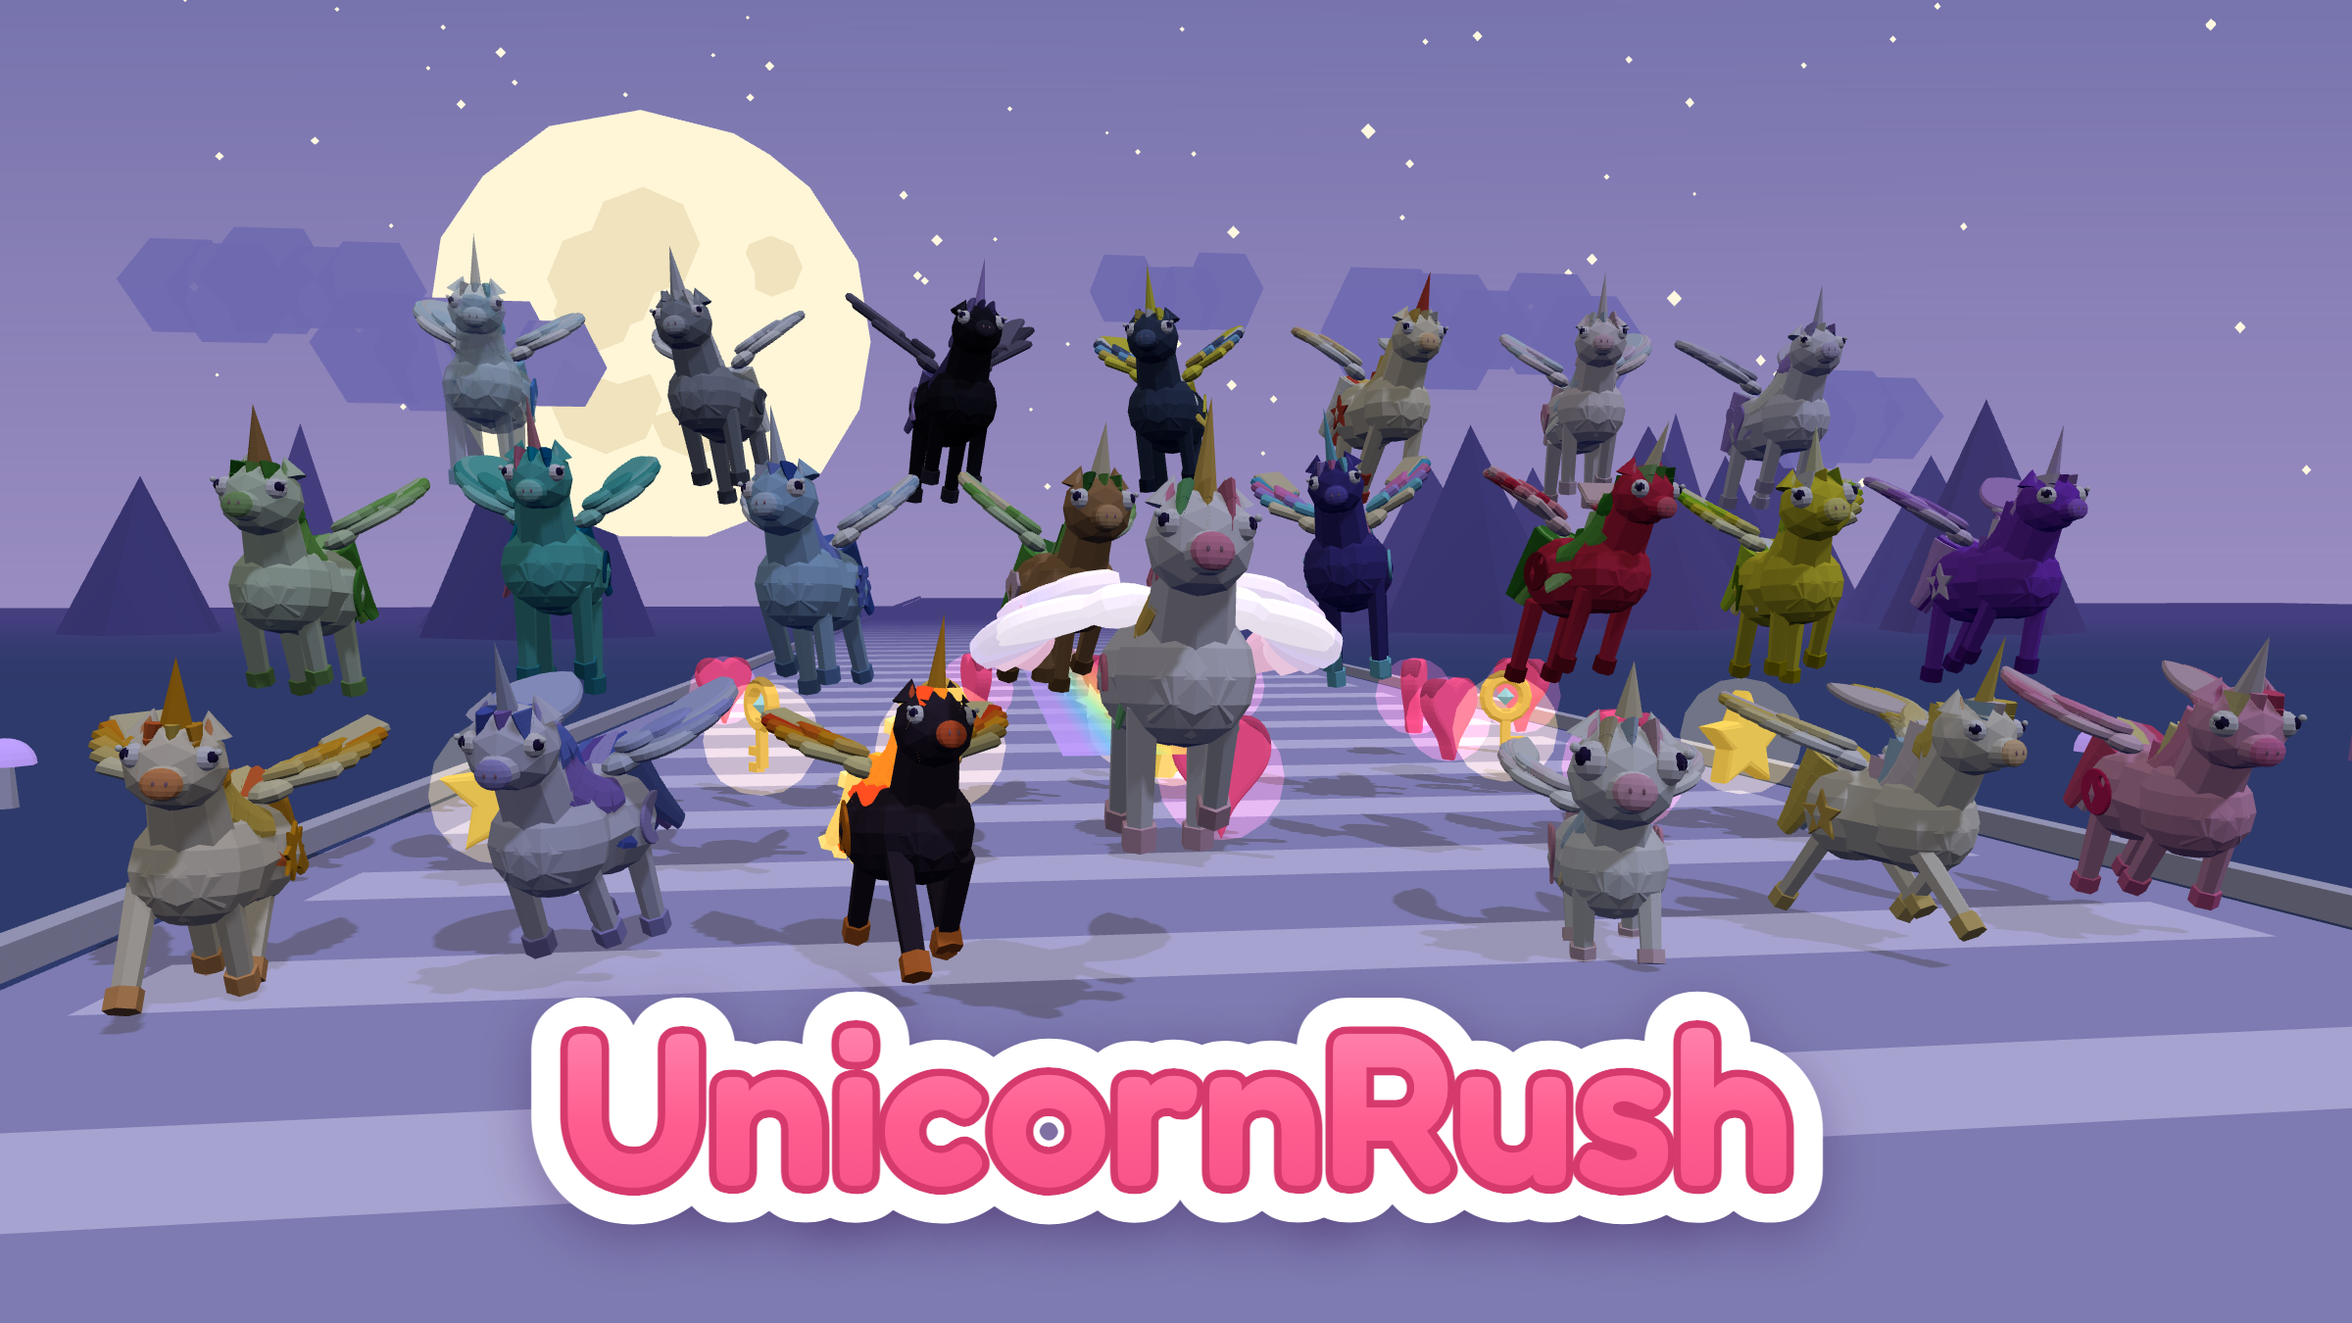
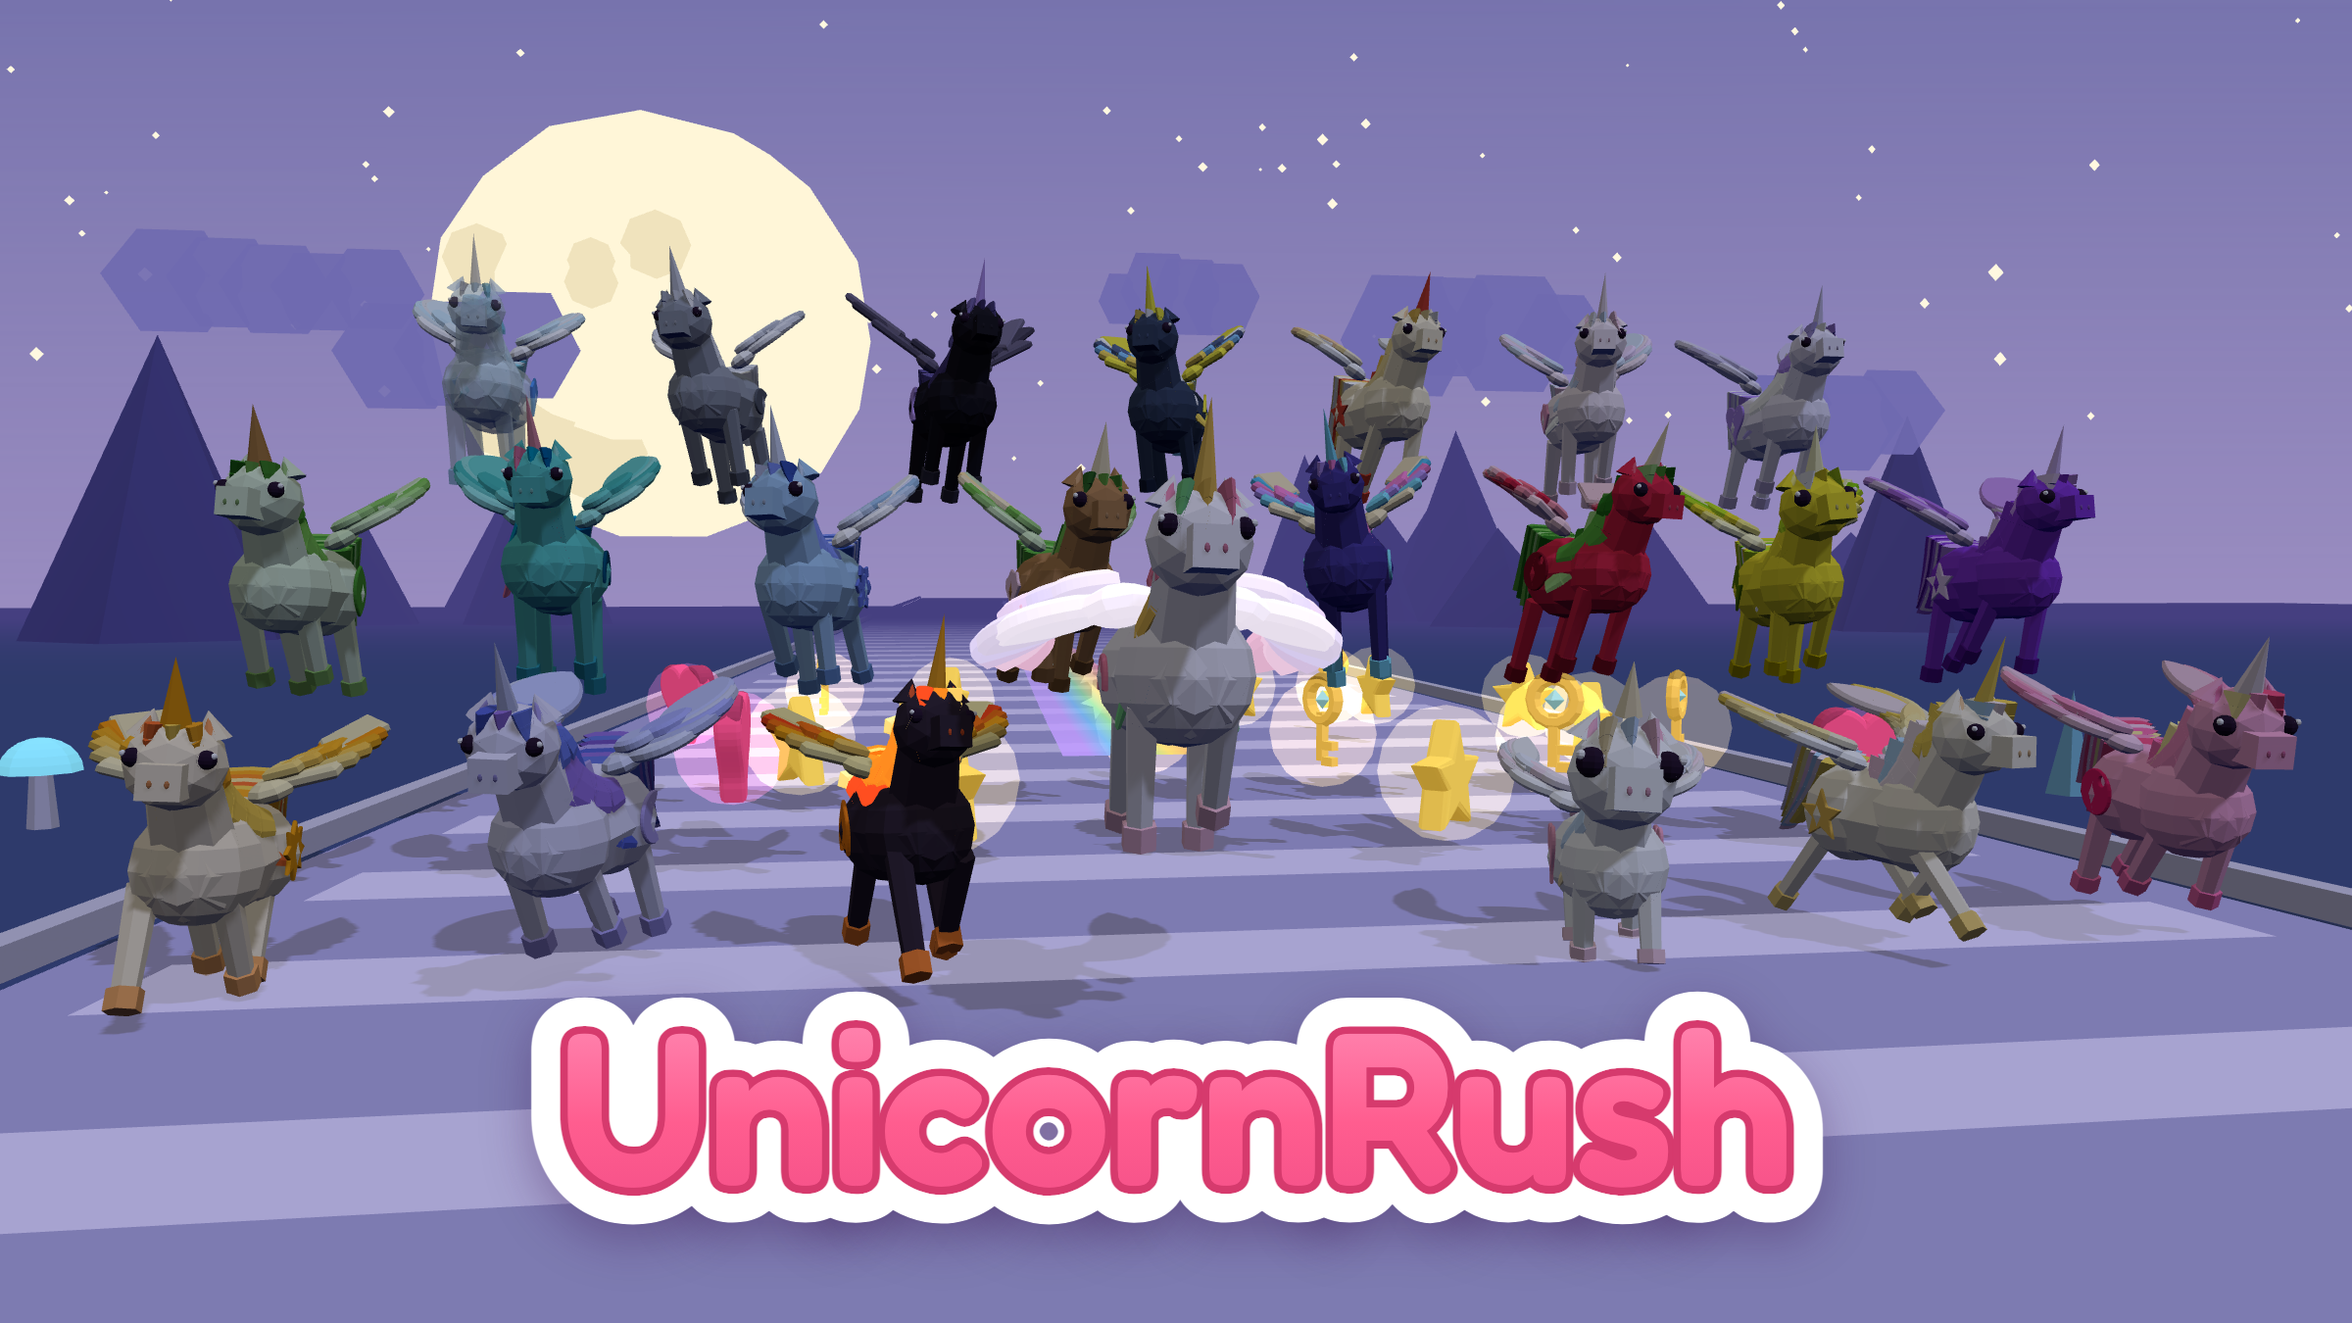
Focinho e olho voltam ao que eram; o rabo vira rabo de cavalo
Desfaz duas mudanças da versão anterior que pioraram o personagem, e conserta
o rabo, que estava feio desde então.

O focinho volta a ser a caixa de antes, **sem a bolinha da ponta** — só as
duas narinas ficam, na cor do personagem escurecida, porque no tom original
sumiriam em quem é claro e um preto fixo destoaria de quem é escuro. A
esfera com mancha clara que tentei no lugar virava focinho de porquinho.

O olho volta a ser a bolinha escura, agora com **um brilho**: uma bolinha
branca em cima, do lado de fora, onde a luz bateria. É o que separa "olho"
de "botão de casaco", por uma peça — e não pelas três do olho em camadas que
eu tinha montado.

E o rabo, onde errei três vezes seguidas. A mecha é fina em X e larga em Z,
que serve para a crina cair rente ao pescoço; espalhando as do rabo em X,
elas se empilham uma atrás da outra e de perfil só se vê a face da primeira
— tábua de uma cor só, com as outras num filete na borda, e grossas o
bastante para dar para contar uma a uma (as "várias tranças"). Em anel, com
a face acompanhando a volta, vira uma fileira de lâminas.

O que funciona é achatar **em Z** e espalhar **em Z**: cada mecha ocupa uma
fatia da largura, e as cores correm lado a lado ao longo do rabo, como o
arco-íris na ilustração. Daí a opção `achatarEm` do `makeLock` — achatar por
opção em vez de girar a mecha 90° é o que mantém o balanço para trás, já que
o `animateLock` gira os nós no X local.
[…]

diff --git a/src/models/unicorn.js b/src/models/unicorn.js
@@ -21,7 +21,10 @@ const mat = (color, opts = {}) =>
 // `curva` é o quanto cada nó dobra em relação ao anterior: com 0 a mecha é
 // um espeto, e com 0,2 ela vira uma onda. É o que separa "fio de cabelo" de
 // "cabelo de desenho", que é o que as ilustrações do livro têm.
-function makeLock(color, { length = 0.9, width = 0.14, segments = 5, flatten = 0.45, fiery = false, curva = 0 } = {}) {
+// `achatarEm` diz em que eixo a mecha é fina. O padrão é `x` (fina de lado,
+// larga de frente), que serve para crina e franja. O rabo precisa do
+// contrário — ver o porquê em makeTail.
+function makeLock(color, { length = 0.9, width = 0.14, segments = 5, flatten = 0.45, fiery = false, curva = 0, achatarEm = 'x' } = {}) {
   const root = new THREE.Group();
   const joints = [];
   const segLength = length / segments;
@@ -44,7 +47,7 @@ function makeLock(color, { length = 0.9, width = 0.14, segments = 5, flatten = 0
       material
     );
     mesh.position.y = -segLength / 2;
-    mesh.scale.x = flatten;          // fina de lado: mecha de cabelo, não tubo
+    mesh.scale[achatarEm] = flatten;   // fina num eixo: mecha de cabelo, não tubo
     mesh.castShadow = true;
 
     joint.add(mesh);
@@ -108,23 +111,36 @@ function makeMane(colors, fiery = false) {
 function makeTail(colors, fiery = false) {
   const tail = new THREE.Group();
   const locks = [];
-  const count = 6;
+  const count = 7;
 
   for (let i = 0; i < count; i++) {
-    const offset = i - (count - 1) / 2;
+    const meio = i - (count - 1) / 2;
+
+    // O rabo é fino **em Z** e espalhado **em Z**, ao contrário da crina.
+    //
+    // Foi onde errei três vezes. A mecha padrão é fina de lado (X) e larga de
+    // frente (Z); espalhando-as em X, elas se empilham uma atrás da outra e
+    // de perfil só se vê a face da primeira — o rabo virava uma tábua de uma
+    // cor só, com as outras aparecendo num filete na borda. Espalhadas em Z e
+    // finas em Z, cada mecha ocupa uma fatia da largura do rabo, e as cores
+    // correm lado a lado ao longo dele, que é como o arco-íris aparece na
+    // ilustração do livro.
+    //
+    // Achatar por opção (e não girar a mecha 90°) é o que mantém o balanço
+    // certo: `animateLock` gira os nós no X local, e uma mecha girada
+    // balançaria de lado em vez de para trás.
     const lock = makeLock(colors[i % colors.length], {
-      length: 0.95 - Math.abs(offset) * 0.06,
-      width: 0.26,                       // pluma, não fita
+      length: 1.0 - Math.abs(meio) * 0.05,   // ponta arredondada
+      width: 0.3,
       segments: 5,
-      flatten: fiery ? 0.7 : 0.42,
-      // Dobra para fora: o rabo abre em leque em vez de cair reto.
-      curva: fiery ? 0 : 0.13,
+      flatten: fiery ? 0.7 : 0.22,
+      curva: fiery ? 0 : 0.12,
+      achatarEm: 'z',
       fiery,
     });
-    // Bem juntinhas: de trás o rabo tem que parecer um tufo, não fitas soltas.
-    lock.position.set(offset * 0.075, 0, -Math.abs(offset) * 0.05);
-    lock.rotation.z = offset * 0.1;
-    lock.userData.phase = i * 0.55;
+    lock.position.set(0, 0, meio * 0.052);
+    lock.rotation.x = -Math.abs(meio) * 0.02;
+    lock.userData.phase = i * 0.5;
     tail.add(lock);
     locks.push(lock);
   }
@@ -132,6 +148,10 @@ function makeTail(colors, fiery = false) {
   tail.userData.locks = locks;
   return tail;
 }
+
+
+
+
 
 // ---------------------------------------------------------------------------
 // Asas
@@ -488,64 +508,41 @@ export function createUnicorn(character = CHARACTERS.uni) {
   skull.castShadow = true;
   head.add(skull);
 
-  // Focinho arredondado. Era uma caixa, e de frente a cara terminava numa
-  // quina — o oposto de fofo. Uma esfera achatada encosta no crânio sem
-  // costura e mantém o vocabulário de poucas faces do resto do jogo.
-  const muzzle = new THREE.Mesh(new THREE.SphereGeometry(0.17, 10, 8), bodyMat);
-  // Curto e redondo: focinho comprido lê como cavalo adulto, e o alvo
-  // aqui é o pônei das ilustrações.
-  muzzle.scale.set(0.88, 0.78, 0.92);
-  muzzle.position.set(0, -0.1, -0.26);
+  const muzzle = new THREE.Mesh(new THREE.BoxGeometry(0.27, 0.25, 0.34), bodyMat);
+  muzzle.position.set(0, -0.09, -0.3);
   muzzle.castShadow = true;
   head.add(muzzle);
 
-  // O focinho é uma **mancha** rente à cara, e não a bolinha que ficava
-  // saliente na ponta — de perfil aquilo lia como nariz de palhaço. Nas
-  // ilustrações do livro é uma marca clara no fim do focinho, com duas
-  // narinas do tamanho de um alfinete.
-  const mancha = new THREE.Mesh(new THREE.SphereGeometry(0.132, 10, 8), mat(character.muzzle));
-  mancha.scale.set(1, 0.86, 0.46);
-  mancha.position.set(0, -0.105, -0.375);
-  head.add(mancha);
-
-  // Narinas mínimas. Na primeira tentativa eram três vezes isto e a cara
-  // virava focinho de porquinho: o que faz ler "cavalinho" é a mancha, e a
-  // narina só precisa existir.
+  // Só as narinas na ponta. A bolinha que havia aqui lia como nariz de
+  // palhaço, e a mancha que tentei no lugar dela deixava o focinho de
+  // porquinho — duas marquinhas bastam.
+  //
+  // A cor sai da do personagem, escurecida: no tom original ela sumiria em
+  // quem é claro, e um preto fixo destoaria de quem é escuro.
+  const corNarina = new THREE.Color(character.muzzle).multiplyScalar(0.62);
   for (const side of [-1, 1]) {
-    const narina = new THREE.Mesh(new THREE.SphereGeometry(0.014, 6, 5), mat(0xb07f92));
-    narina.scale.set(1, 1.5, 0.6);
-    narina.position.set(side * 0.038, -0.1, -0.428);
+    const narina = new THREE.Mesh(new THREE.SphereGeometry(0.019, 6, 5), mat(corNarina));
+    narina.scale.set(1, 1.5, 0.7);
+    narina.position.set(side * 0.052, -0.1, -0.468);
     head.add(narina);
   }
 
   const ears = [];
   for (const side of [-1, 1]) {
-    // O olho, em três peças: branco, íris e um brilhinho.
-    //
-    // Antes era uma bolinha escura só, que de perto lia como botão de casaco.
-    // O que faz o olho parecer vivo — e o bicho, fofo — é o branco em volta e
-    // o pontinho de luz; é o que as ilustrações do livro fazem.
-    //
-    // As três peças ficam empilhadas ao longo da **normal do crânio** (a
-    // direção que sai do centro da cabeça passando pelo olho), e não ao longo
-    // do Z: o olho fica na quina entre a frente e a lateral, então empilhar em
-    // Z deixaria a íris torta quando o bicho é visto de lado — e agora ele
-    // gira 360° na ficha.
-    const raio = 0.092 * shape.eye;
-    const fora = new THREE.Vector3(side * 0.23, 0.075, -0.2).normalize();
-    const olho = (r, cor, altura) => {
-      const m = new THREE.Mesh(new THREE.SphereGeometry(r, 9, 7), mat(cor));
-      m.position.copy(fora).multiplyScalar(0.285 + altura);
-      head.add(m);
-      return m;
-    };
-    olho(raio, 0xfffaff, 0);                       // o branco
-    olho(raio * 0.56, 0x2f2350, raio * 0.55);      // a íris, deixando o branco à mostra
-    const brilho = olho(raio * 0.26, 0xffffff, raio * 0.86);
-    // O brilho não fica no meio: sai um pouco para cima e para o lado de
-    // fora, que é onde a luz bate.
-    brilho.position.x += side * raio * 0.34;
-    brilho.position.y += raio * 0.38;
+    const raioOlho = 0.07 * shape.eye;
+    const eye = new THREE.Mesh(new THREE.SphereGeometry(raioOlho, 8, 8), mat(0x30203a));
+    eye.position.set(side * 0.22, 0.06, -0.2);
+    head.add(eye);
+
+    // O brilho: uma bolinha branca em cima do olho, do lado de fora, que é
+    // onde a luz bateria. É o que separa "olho" de "botão de casaco" — e
+    // custa uma peça, não as três de um olho montado em camadas.
+    const fora = new THREE.Vector3(side * 0.22, 0.06, -0.2).normalize();
+    const brilho = new THREE.Mesh(new THREE.SphereGeometry(raioOlho * 0.33, 6, 5), mat(0xffffff));
+    brilho.position.copy(eye.position).addScaledVector(fora, raioOlho * 0.7);
+    brilho.position.x += side * raioOlho * 0.26;
+    brilho.position.y += raioOlho * 0.3;
+    head.add(brilho);
 
     // Orelha baixinha e larga, com o rosa por dentro. Era um cone alto e
     // fino que, ao lado do chifre, virava um segundo chifre — três pontas

diff --git a/sw.js b/sw.js
@@ -5,7 +5,7 @@
 //
 // O nome do cache carrega a versão do jogo: ao subi-la (com `npm run bump`),
 // o cache velho é apagado sozinho no aparelho de quem já jogou.
-const VERSION = 'unicornrush-v0.24.0';
+const VERSION = 'unicornrush-v0.24.1';
 
 const SHELL = [
   './',

diff --git a/src/game/version.js b/src/game/version.js
@@ -7,4 +7,4 @@
 // Para subir a versão use `npm run bump` — ele mexe nos três lugares de uma
 // vez (aqui, no `package.json` e no `sw.js`), que é o que impede de um deles
 // ficar para trás.
-export const VERSION = '0.24.0';
+export const VERSION = '0.24.1';

diff --git a/README.md b/README.md
@@ -387,45 +387,60 @@ branco filtrado com corpo médio, que se ouve em qualquer aparelho, e o
 **rugido** grave que vem depois e vai fechando o filtro enquanto some, como
 um som que se afasta (`ruido()` em `src/game/audio.js`).
 
-## A cara do unicórnio
+## A cara e o rabo do unicórnio
 
-O modelo foi aproximado das **ilustrações do livro** (ver `assets/story/`),
-que são o desenho oficial da Uni. O que mudou, e por quê:
+Aproximados das **ilustrações do livro** (ver `assets/story/`), que são o
+desenho oficial da Uni.
 
-**O focinho era uma caixa com uma bolinha na ponta.** A bolinha lia como
-nariz de palhaço e a quina da caixa era o oposto de fofo. Agora é uma esfera
-achatada — sem costura com o crânio — com uma **mancha** clara no fim, na
-cor `muzzle` do personagem, e duas narinas do tamanho de um alfinete. Na
-primeira tentativa as narinas eram três vezes isto e a cara virava focinho
-de porquinho: o que faz ler "cavalinho" é a mancha, e a narina só precisa
-existir.
+**O focinho perdeu a bolinha da ponta**, que lia como nariz de palhaço. No
+lugar dela ficaram só duas narinas, na cor do personagem escurecida — no tom
+original elas sumiriam em quem é claro, e um preto fixo destoaria de quem é
+escuro. (Tentei antes trocar a caixa do focinho por uma esfera com uma
+mancha clara; ficou pior, virou focinho de porquinho, e voltou atrás.)
 
-**O olho era uma bolinha escura**, que de perto lia como botão de casaco.
-Agora são três peças — branco, íris e um pontinho de luz —, que é o que a
-ilustração faz. As três ficam empilhadas ao longo da **normal do crânio**, e
-não do eixo Z: o olho fica na quina entre a frente e a lateral, e empilhar em
-Z deixaria a íris torta de perfil (o que passou a importar quando a ficha
-ganhou o 3D que gira).
+**O olho ganhou um brilho**: uma bolinha branca em cima, do lado de fora,
+onde a luz bateria. É o que separa "olho" de "botão de casaco", e custa uma
+peça — não as três de um olho montado em camadas, que também tentei e
+descartei.
 
 **As orelhas eram cones altos e finos** que, ao lado do chifre, viravam um
 segundo chifre — três pontas na mesma cabeça. Agora são baixas, largas e com
 o rosa por dentro.
 
-**A crina e o rabo eram retos.** As mechas ganharam uma `curva`: cada nó
-dobra um pouco em relação ao anterior, e o que era espeto virou onda. A
-curva é **somada** dentro do `animateLock`, não deixada na montagem — aquele
-laço roda a cada quadro e apagaria qualquer dobra.
+**As mechas ganharam `curva`**: cada nó dobra um pouco em relação ao
+anterior, e o que era espeto virou onda. A curva é **somada** dentro do
+`animateLock`, não deixada na montagem — aquele laço roda a cada quadro e
+apagaria qualquer dobra.
 
-Nisso errei duas vezes seguidas, nas duas direções: primeiro engrossei as
-mechas para dar volume e elas viraram **tábuas coloridas**; depois tirei o
-afinamento e elas viraram tábuas de ponta quadrada. O que funciona é larga
-como lençol e **fina de perfil** (`flatten` 0,25), afinando até um terço da
-largura — em bico vira espinho de cacto, sem afinar nenhum vira tábua.
+### O rabo, e o eixo em que a mecha é fina
 
-O modelo é um só, então isto vale para os 22. E duas coisas saem do modelo e
-ficam gravadas — a animação do carregamento (`npm run gravar-uni`) e as
-imagens de anúncio (`npm run anuncio`): mexeu no unicórnio, refaz as duas,
-senão elas continuam mostrando a cara antiga.
+O rabo é o oposto da crina, e foi onde errei três vezes seguidas.
+
+A mecha padrão é **fina em X** (de lado) e larga em Z (de frente), que é o
+que serve para a crina cair rente ao pescoço. Espalhando as mechas do rabo
+em X — lado a lado, como estavam —, elas se empilham uma atrás da outra: de
+perfil só se vê a face da primeira, e o rabo vira uma tábua de uma cor só,
+com as outras seis aparecendo num filete na borda. Grossas, dava para contar
+uma a uma e o bicho parecia ter sete rabinhos; foi o que se viu em jogo.
+
+Também não funciona dispô-las **em anel**, com a face acompanhando a volta:
+de qualquer ângulo se vê metade de face e metade de fio, e o rabo vira uma
+fileira de lâminas.
+
+O que funciona é achatar **em Z** e espalhar **em Z**: cada mecha ocupa uma
+fatia da largura do rabo, e as cores correm lado a lado *ao longo* dele —
+que é exatamente como o arco-íris aparece na ilustração.
+
+Daí a opção `achatarEm` do `makeLock`. Achatar por opção, e não girar a
+mecha 90°, é o que mantém o balanço certo: o `animateLock` gira os nós no X
+local, e uma mecha girada balançaria de lado em vez de para trás.
+
+### O que fica gravado
+
+O modelo é um só, então tudo isto vale para os 22. E duas coisas saem dele e
+ficam guardadas como arquivo — a animação do carregamento
+(`npm run gravar-uni`) e as imagens de anúncio (`npm run anuncio`): mexeu no
+unicórnio, refaz as duas, senão continuam mostrando a cara antiga.
 
 ## Modos de jogo
 
